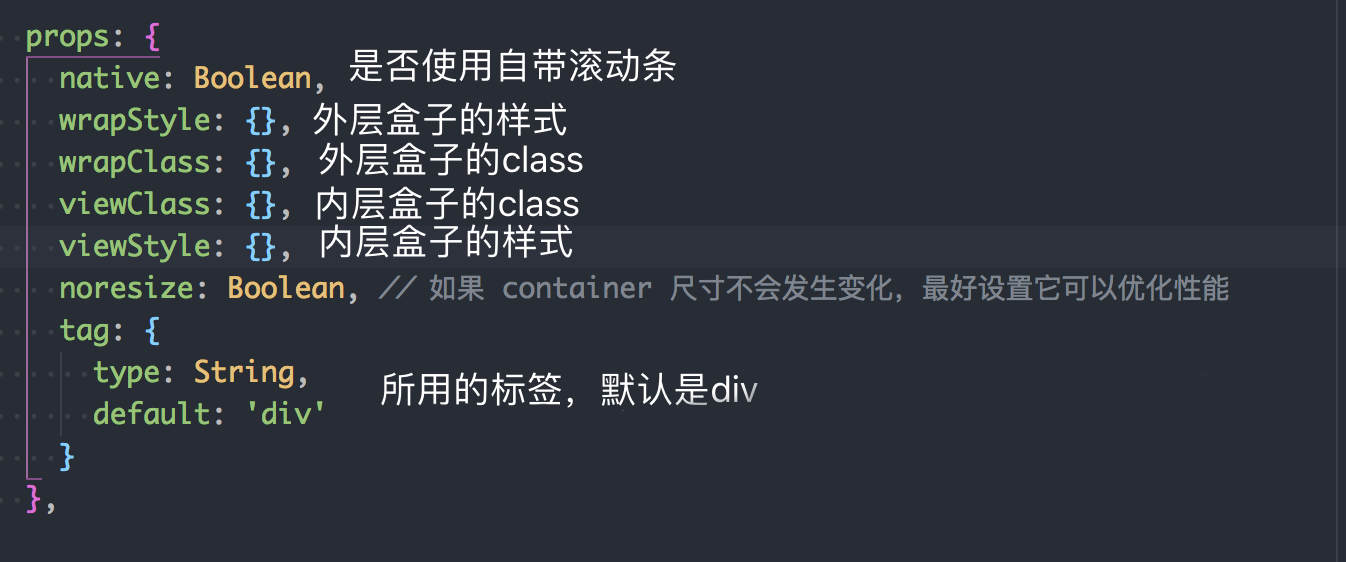
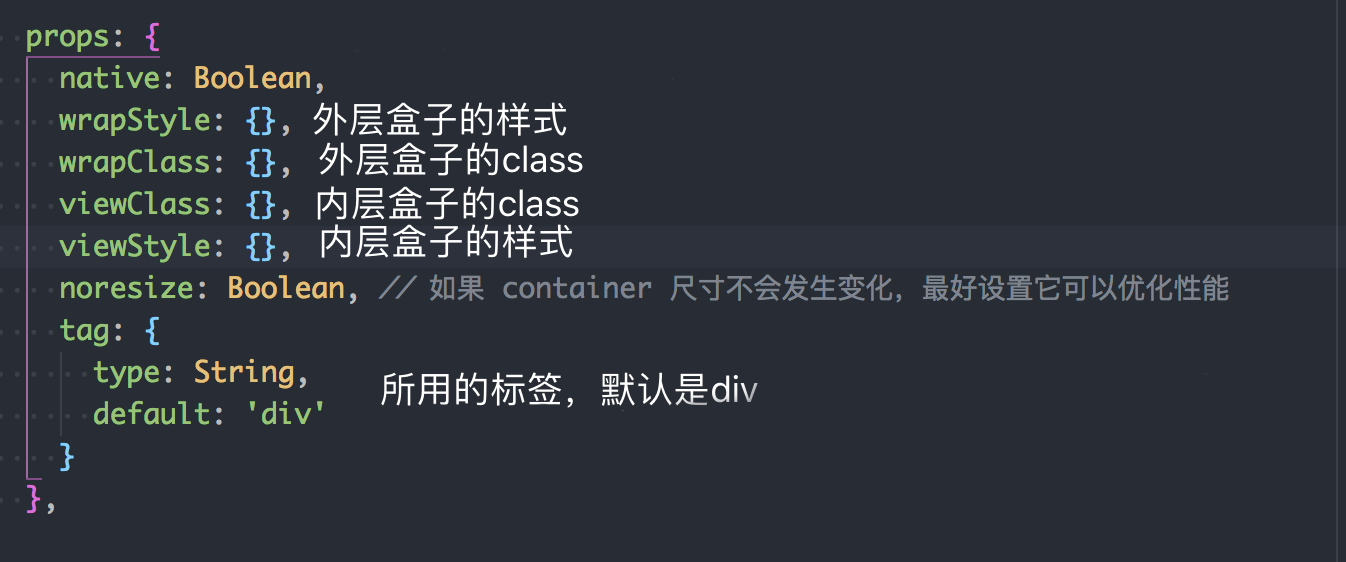
update: el-scrollbar更新完善

Changed region(s): [[0.2496, 0.0907, 0.4993, 0.1512]]

diff --git a/project/el-scrollbar.md b/project/el-scrollbar.md
@@ -1,19 +1,22 @@
-## vue的模拟滚动，我用的是el-scrollbar
+## Vue的自定义滚动，我用el-scrollbar
 
 ### 为什么要用el-scrollbar？
 
-最近在写一个内部平台系统，相信大家都知道，其中会有很多自定义的滚动区域，就比如说现在有一个列表需要滚动，用 `overflow: scroll;` 啊，嗯嗯，又不是不能用！如果我不曾见过太阳，我本可以忍受黑暗。
+最近在写一个内部平台系统，相信大家都知道，其中会有很多自定义的滚动区域，就比如说现在有一个列表需要滚动，第一个念头就是用 `overflow: scroll;` 啊！嗯嗯，又不是不能用！如果我不曾见过太阳，我本可以忍受黑暗。
 <br>
-大家总会见过不少滚动条比较优雅的实现，不可否认，美是让人愉悦的。所以这些年行走江湖我其实满怀愧疚，让大家见丑了。
-<br />
-为什么要用el-scrollbar，大家都知道，模拟一个滚动不难，而且市面上很多这样的库。首先项目用的框架是Vue，然后用的组件库是Element，Element官网也有很多滚动，而且像是Select组件的下拉框也是有组件的，所以就不用想选择什么了，简简单单的就用Element自己的scrollbar吧，也不用再引入什么别的包或者文件之类的。
-<br />
+
+大家总会见过不少滚动条比较优雅的实现，不可否认，美是让人愉悦的。所以这些年行走江湖我满怀愧疚，让大家见丑了。
+<br>
+
+为什么要用el-scrollbar，大家都知道，模拟一个滚动不难，而且市面上很多这样的库。首先项目用的框架是Vue，然后用的组件库是Element，Element官网也有很多滚动，而且像是Select组件的下拉框也是有滚动的，所以就不用想选择什么了，简简单单的就用Element自己的scrollbar吧，也不用再引入什么别的包或者文件之类的。
+<br>
+
 看Element的官网是不可能发现Scrollbar这个组件的，没有使用文档，但是可以直接使用。
 
 ### 为什么要写这一篇文章？
 
 * 第一，有段时间没写东西了，先热热手；
-* 第二，真的有同学不知道怎么引，可能主要是没有文档吧。
+* 第二，真的有同学不知道怎么用，可能主要是没有文档吧~
 
 ![el-github](./images/el-github.jpg)
 
@@ -21,19 +24,23 @@
 
 ![](./images/el-scrollbar.gif)
 
-看了效果，接着来看一下怎么用，官方没有提供文档，但是确实是直接可用的一个组件。为什么这么说，这个一会再聊。先稍微看一下Element项目基本的一些概念。
-<br />
-在Element的贡献指南里说了开发环境搭建和打包代码的指令。打包代码用 `npm run dist` ,我们去`package.json`中可以看到这个指令具体的操作。
+看了效果，接着来看一下怎么找到这个组件，官方没有提供文档，但确实是直接可用的一个组件。为什么这么说，这个一会再聊。先稍微看一下Element项目基本的一些概念。
+<br>
+
+在Element的贡献指南里说了开发环境搭建和打包代码的指令。打包代码用 `npm run dist` ,我们去`package.json`中可以看到这个指令具体的操作。
 
 ![](./images/run-dist.jpg)
 
-我们可以去简单看一下`build/webpack.conf.js`这个文件，会发现打包的文件入口是`./src/index.js`,我们再去看一下这个文件。里面内容除了包含给vue安装插件，原型上挂载对象之类的操作外，就是用插件的方式把Element组件给注册完成，当然也暴露出用安装包方式安装后要用的所有方法和属性。其实我们已经看到了`Scrollbar`的身影。再循着去看一下`packages/scrollbar/index.js'`这个文件，简单的把这个组件引入后，添加了一个install方法，提供给Vue的use方法使用，然后就直接export出来了。
+我们可以去简单看一下`build/webpack.conf.js`这个文件，会发现打包的文件入口是`./src/index.js`,我们再去看一下这个文件。里面内容除了包含给vue安装插件，原型上挂载对象之类的操作外，就是用插件的方式把Element组件给注册完成，当然也暴露出用安装包方式安装后要用的所有方法和属性。其实我们已经看到了`Scrollbar`的身影。再循着去看一下`packages/scrollbar/index.js'`这个文件，简单的把这个组件引入后，添加了一个install方法，提供给Vue的use方法使用，然后就直接export出来了。
 
 ![](./images/scrollbar-index.png)
 
 去`src/main.js`这个文件，看一下组件接受的props:
 
 ![](./images/1.png)
+
+native属性，如果为`true`就不显示el的bar，也就是el模拟出来的滚动条，如果为`false`就显示模拟的滚动条
+<br>
 
 关于tag这个属性，可以看一下el的Select组件中的应用。
 
@@ -43,11 +50,11 @@
 
 ![](./images/3.png)
 
-### 尝试用一下
+### 尝试用一下
 
 展示的链接：[el-scrollbar试用](https://jsfiddle.net/chenfangxu/jfn5gzcw/)
 
-考虑到有些同学有时会打不开上面的链接，把代码贴出来。
+考虑到有些同学有时会打不开上面的链接，把代码贴出来。
 
 ```
 HTML
@@ -87,7 +94,7 @@ new Vue({
 })
 ```
 
-Element UI官方说不准什么时候就更新个文档了，不过，真的可能是太简单了。
+Element UI官方说不准什么时候就更新个文档了，不过，真的可能是因为太简单了。
 
 
 

diff --git a/README.md b/README.md
@@ -22,6 +22,8 @@
 
 * [移动端开发](https://qiqihaobenben.github.io/Front-End-Basics/mobile/index)
 
+* [项目技术专栏](https://qiqihaobenben.github.io/Front-End-Basics/project/index)
+
 ## 辅助工具
 
 * [分布式版本控制系统——Git](https://qiqihaobenben.github.io/Front-End-Basics/assistive-tools/git/index 'git')

diff --git a/project/index.md b/project/index.md
@@ -1,1 +1,5 @@
-## 来自项目推动的博客（非基础，只是当个记录）
+## 来自项目推动的博客（非基础，只是技术记录文章）
+
+非基础的意思的，这种技术的更新迭代会比较快。
+
+### [Vue的自定义滚动，我用el-scrollbar](./el-scrollbar)
